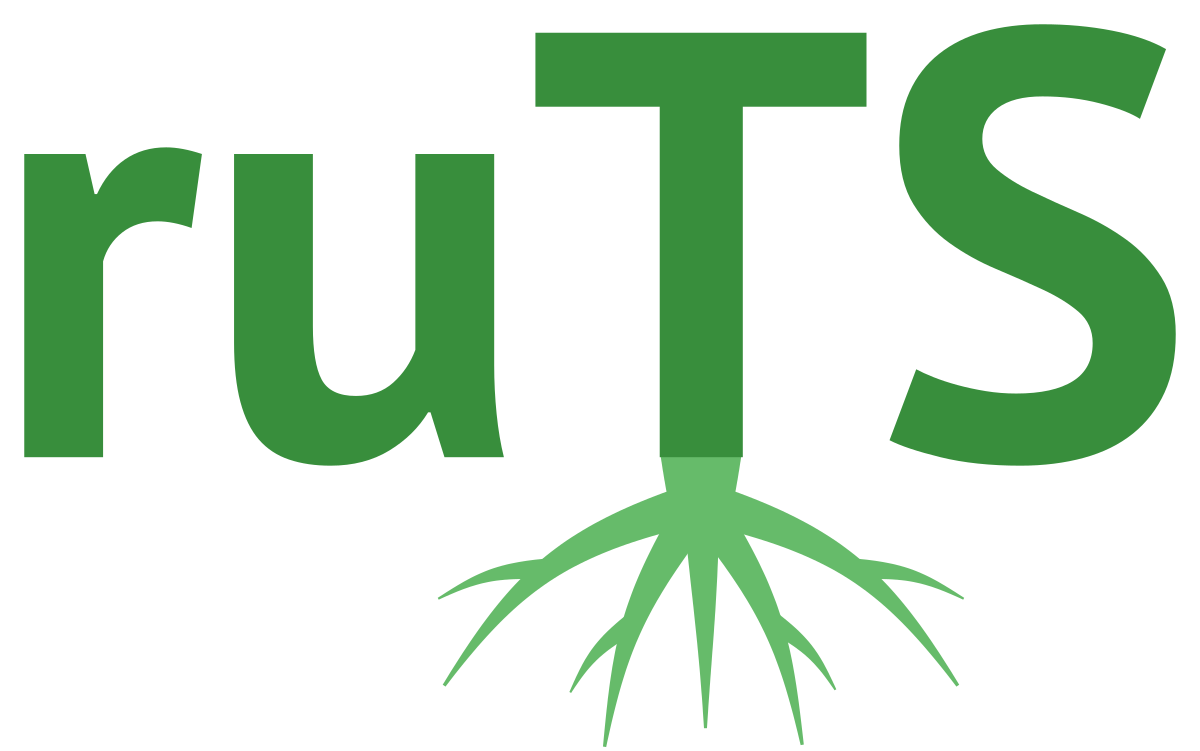
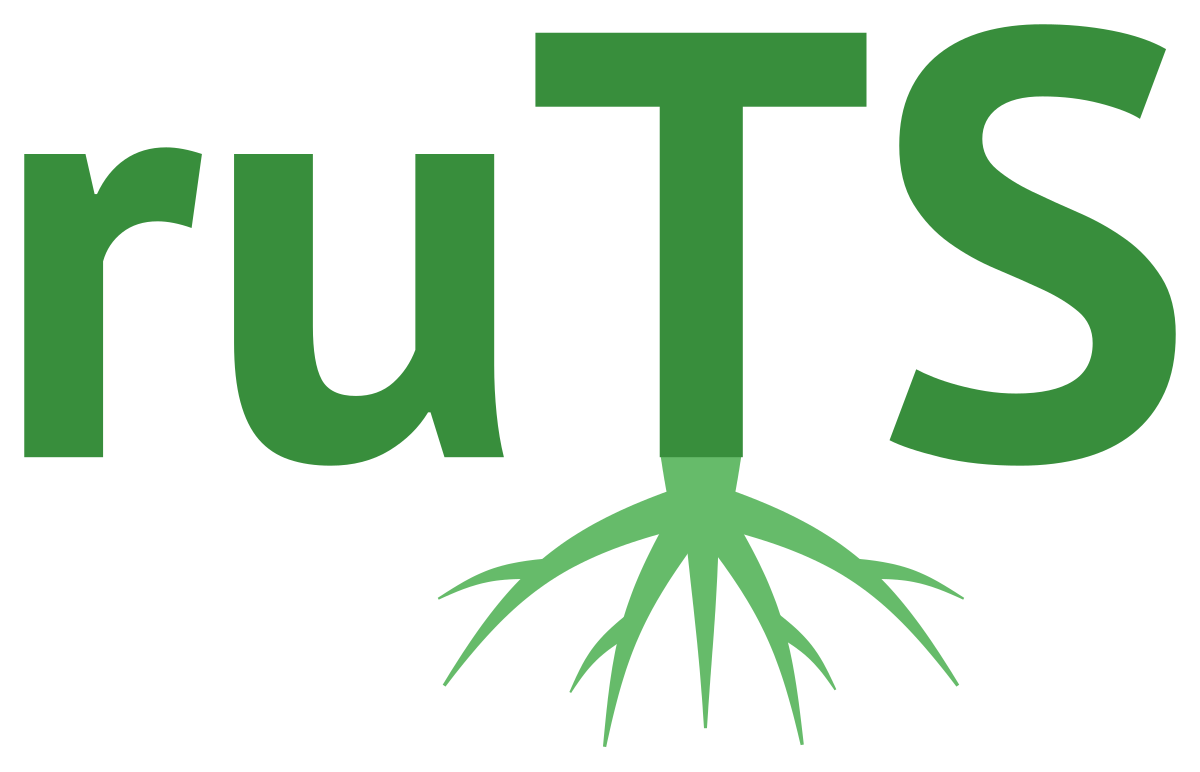
Сверять шрифт знака по контрольной сумме и считать поля по корням
- Шрифт скачивается в память по ссылке на коммит google/fonts и сверяется по sha256: недокачанный файл в кэше больше не ломает следующие запуски
- Рамка знака считается по точкам контуров корней, поэтому поле снизу такое же, как с других сторон
- Ruff в CI и в Makefile проверяет и scripts/

diff --git a/scripts/make_logo.py b/scripts/make_logo.py
@@ -5,12 +5,13 @@
 в контуры, поэтому файл не зависит от шрифтов у читателя. Имя созвучно roots:
 ствол T уходит под строку и ветвится корнями светлым оттенком того же тона
 
-Запуск: uv run --with fonttools python scripts/make_logo.py (PNG - через rsvg-convert)
+Запуск: uv run python scripts/make_logo.py (PNG - через rsvg-convert)
 """
 
+import hashlib
+import io
 import math
 import subprocess
-import tempfile
 import urllib.request
 from pathlib import Path
 
@@ -19,7 +20,11 @@ from fontTools.pens.svgPathPen import SVGPathPen
 from fontTools.pens.transformPen import TransformPen
 from fontTools.ttLib import TTFont
 
-FONT_URL = "https://github.com/google/fonts/raw/main/ofl/ptsans/PT_Sans-Web-Bold.ttf"
+FONT_URL = (
+    "https://raw.githubusercontent.com/google/fonts/"
+    "90abd17b4f97671435798b6147b698aa9087612f/ofl/ptsans/PT_Sans-Web-Bold.ttf"
+)
[1 lines of base64/hex data omitted]
 IMG_DIR = Path(__file__).resolve().parent.parent / "docs" / "img"
 TEXT = "ruTS"
 LETTERS = "#388e3c"
@@ -32,10 +37,11 @@ Curve = tuple[Point, Point, Point, Point]
 
 
 def load_font() -> TTFont:
-    path = Path(tempfile.gettempdir()) / "PT_Sans-Web-Bold.ttf"
-    if not path.exists():
-        urllib.request.urlretrieve(FONT_URL, path)
-    return TTFont(path)
+    with urllib.request.urlopen(FONT_URL) as response:
+        data = response.read()
+    if hashlib.sha256(data).hexdigest() != FONT_SHA256:
+        raise RuntimeError(f"Контрольная сумма шрифта не совпала: {FONT_URL}")
+    return TTFont(io.BytesIO(data))
 
 
 def letters(font: TTFont) -> tuple[list[str], list[tuple[float, float, float, float]], float]:
@@ -65,7 +71,7 @@ def bezier(p0: Point, p1: Point, p2: Point, p3: Point, t: float) -> Point:
     return x, y
 
 
-def tapered(curve: Curve, w0: float, w1: float, steps: int = 48) -> str:
+def tapered(curve: Curve, w0: float, w1: float, steps: int = 48) -> list[Point]:
     """Контур кривой, ширина которой линейно меняется от w0 до w1"""
     points = [bezier(*curve, i / steps) for i in range(steps + 1)]
     left, right = [], []
@@ -77,7 +83,10 @@ def tapered(curve: Curve, w0: float, w1: float, steps: int = 48) -> str:
         half = (w0 + (w1 - w0) * i / steps) / 2
         left.append((x + nx * half, y + ny * half))
         right.append((x - nx * half, y - ny * half))
-    outline = left + right[::-1]
+    return left + right[::-1]
+
+
+def path_data(outline: list[Point]) -> str:
     return "M " + " L ".join(f"{x:.1f} {y:.1f}" for x, y in outline) + " Z"
 
 
@@ -93,7 +102,7 @@ def root(
     return (start, c1, c2, end), width
 
 
-def roots(x0: float, base: float, stem: float, depth: float) -> list[str]:
+def roots(x0: float, base: float, stem: float, depth: float) -> list[list[Point]]:
     """Ствол под строкой, пять корней и по корешку у каждого, кроме среднего"""
     shapes = []
     collar = (x0, base + 0.24 * depth)
@@ -130,11 +139,11 @@ def main() -> None:
     stem = 0.19 * cap
     depth = 0.62 * cap
     shapes = roots((t_left + t_right) / 2, cap, stem, depth)
-    left = min(box[0] for box in boxes) - MARGIN
-    top = min(box[1] for box in boxes) - MARGIN
-    width = max(box[2] for box in boxes) + MARGIN - left
-    height = cap + depth * 1.02 + MARGIN - top
-    body = [f'  <path fill="{ROOTS}" d="{d}"/>' for d in shapes]
+    xs = [x for box in boxes for x in (box[0], box[2])] + [x for o in shapes for x, _ in o]
+    ys = [y for box in boxes for y in (box[1], box[3])] + [y for o in shapes for _, y in o]
+    left, top = min(xs) - MARGIN, min(ys) - MARGIN
+    width, height = max(xs) + MARGIN - left, max(ys) + MARGIN - top
+    body = [f'  <path fill="{ROOTS}" d="{path_data(outline)}"/>' for outline in shapes]
     body += [f'  <path fill="{LETTERS}" d="{d}"/>' for d in paths]
     svg = "\n".join(
         [
